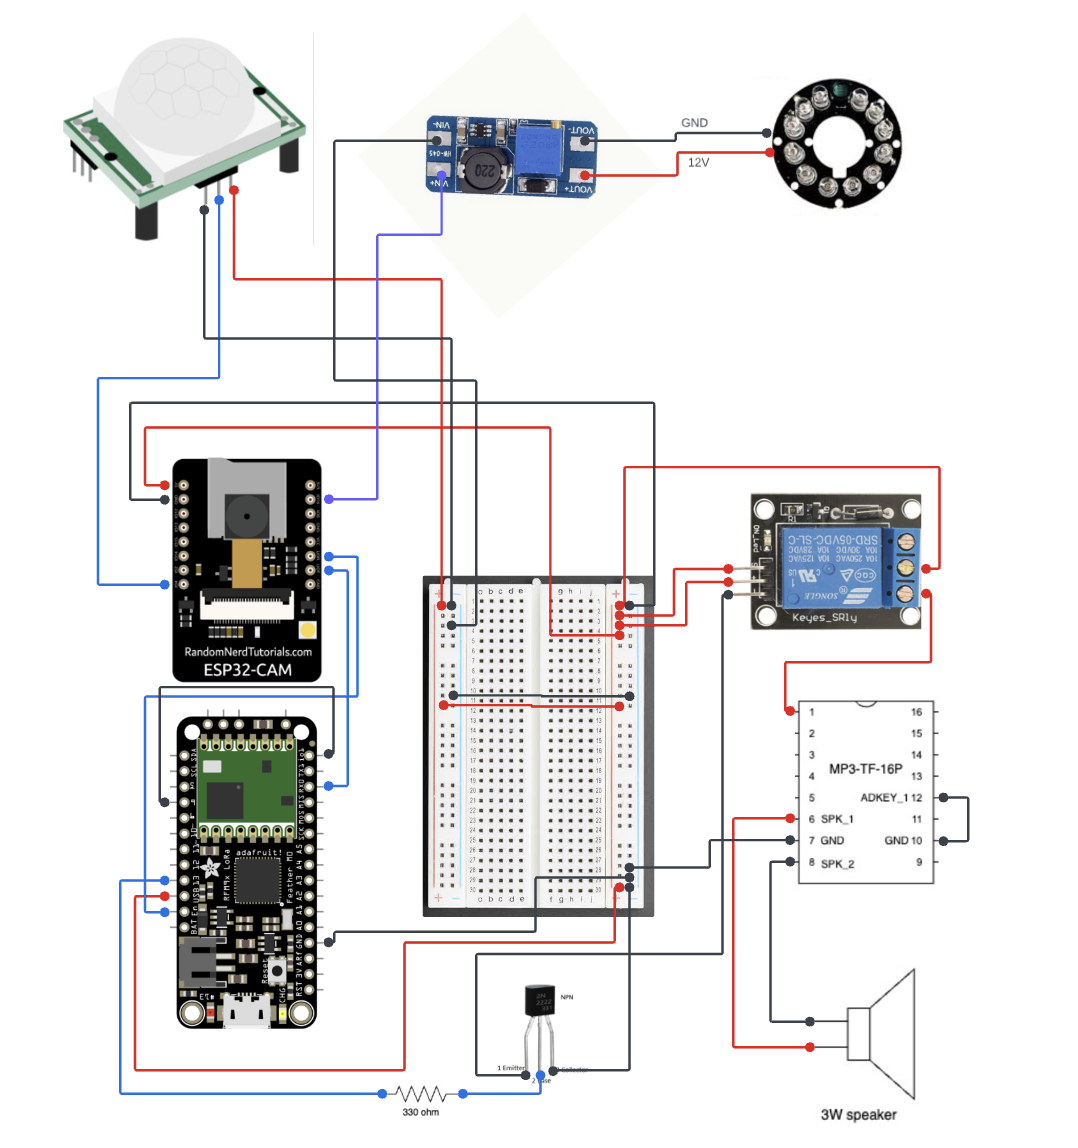
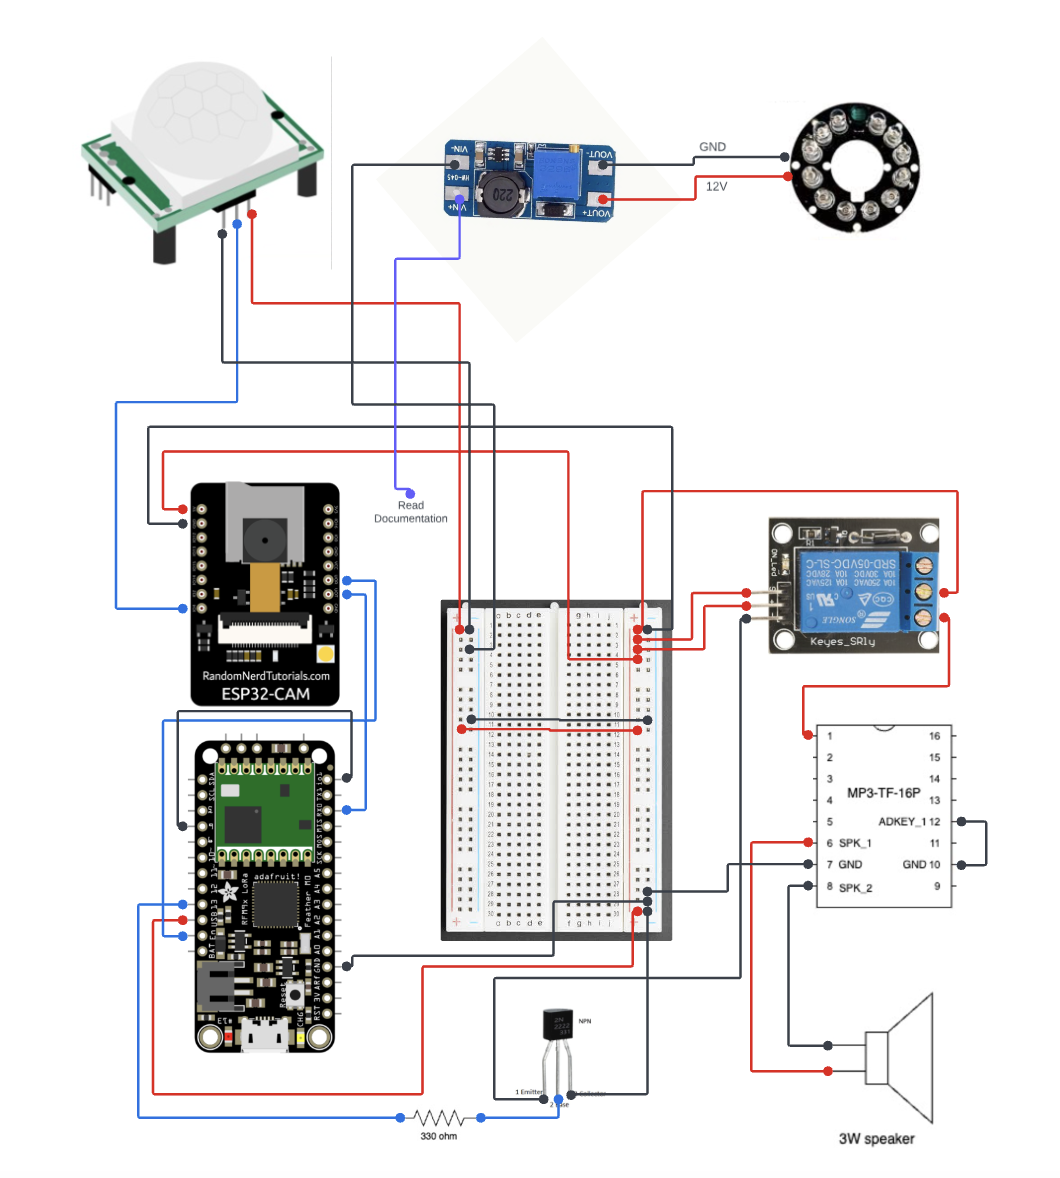
documentation updates

Changed region(s): [[0.0623, 0.061, 0.934, 0.9756], [0.1245, 0.0305, 0.1868, 0.061], [0.2179, 0.061, 0.2491, 0.0915]]

diff --git a/esp32CAMBuild/README.md b/esp32CAMBuild/README.md
@@ -4,6 +4,8 @@
 
 ![image](./images/esp32Diagram.png)
 
+For IR light, connect it to TX pin on ESP32CAM only if you are using the night vision version and disconnect the TX pin and the featherboard RX pin/leave unconnected. This removes the ESP32CAM reporting to the featherboard what the model classifies the picture and instead sends a ping of "caught".
+
 ## What is TinyScrubCAM?
 
 TinyScrubCAM is a low power consumption device that has been through different iterations. It started as a RaspPi running motion detection sensors and cameras. This version consumed too much power, the whole point of TinyScrubCAM is to be a long lasting animal deterrant. Whenever a animal of interest is caught in our cameras point of view it should play a sound on a speaker in hopes of making the animal flee. To make TinyScrubCAM low powered, we switched over to using microcontrollers powered by battery. Specifically the Google Coral, ESP32, and Feather M0s. We used hardware interrupts to essentially keep our microcontroller draining as little power as possible until the moment that the PIR sensor is triggered which will activate sound and capture an image to the SD card, which will be used to train more machine learning models on local species of animals.
